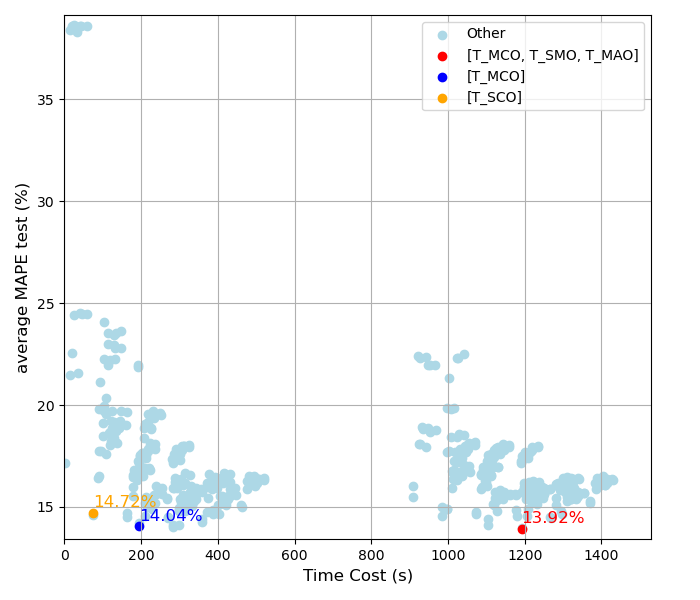
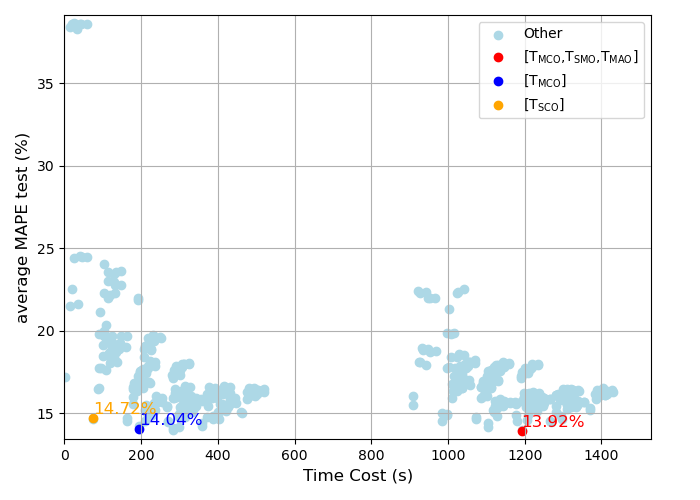
graph整理 完了

Changed region(s): [[0.0, 0.27, 0.93, 0.99], [0.06, 0.0, 0.93, 0.24], [0.84, 0.21, 0.87, 0.24]]

diff --git a/visualize_source/plot_mape_timecost_tradeoff.py b/visualize_source/plot_mape_timecost_tradeoff.py
@@ -28,7 +28,7 @@ def main():
     condition_other = ~condition_1 & ~condition_2 & ~condition_3  # その他は青
 
     # # グラフの描画
-    fig, ax = plt.subplots(figsize=(7, 6))
+    fig, ax = plt.subplots(figsize=(7, 5))
 
     # 青の点（それ以外）
     ax.scatter(df['Time Cost (s)'][condition_other],
@@ -36,22 +36,26 @@ def main():
                color='lightblue',
                label='Other')
 
+    # 各モデルにラベルを付けるためにデータフレームを加工
+    def get_label(param_list):
+        return f"[{','.join([to_latex_subscript(param) for param in param_list])}]"
+
     # 赤の点 max
     scatter_max = ax.scatter(df['Time Cost (s)'][condition_1],
                              df['average MAPE test (%)'][condition_1],
                              color='red',
-                             label=f"[{', '.join(max_mape_list)}]")
+                             label=get_label(max_mape_list))
 
     # 青の点 trade_off
     scatter_trade_off = ax.scatter(df['Time Cost (s)'][condition_2],
                                    df['average MAPE test (%)'][condition_2],
                                    color='blue',
-                                   label=f"[{', '.join(trade_off_list)}]")
+                                   label=get_label(trade_off_list))
     #オレンジcletの点
     scatter_cost_on = ax.scatter(df['Time Cost (s)'][condition_3],
                                  df['average MAPE test (%)'][condition_3],
                                  color='orange',
-                                 label=f"[{', '.join(cost_on_list)}]")
+                                 label=get_label(cost_on_list))
 
     # 各点の上に 'average MAPE test (%)' の値を表示（lightblueを除く）
     def adjust_text_position(x, y, color):
@@ -127,6 +131,13 @@ def load_data(data_dir, data_file):
     except ValueError as e:
         print(e)
         sys.exit(1)
+
+
+def to_latex_subscript(parameter):
+    """
+    LaTeX形式で変数を下付き文字として変換する
+    """
+    return f"T$_{{\\text{{{parameter[2:]}}}}}$"  # 'T_'の後ろを下付き文字として変換
 
 
 def save_plot(fig, output_dir, output_file):

diff --git a/IN_visuarize_source/plot_mape_timecost_tradeoff.py b/IN_visuarize_source/plot_mape_timecost_tradeoff.py
@@ -35,23 +35,29 @@ def main():
                df['average MAPE test (%)'][condition_other],
                color='lightblue',
                label='Other')
+
     # "#1f77b4", "#ff7f0e"
+
+    # 各モデルにラベルを付けるためにデータフレームを加工
+    def get_label(param_list):
+        return f"[{','.join([to_latex_subscript(param) for param in param_list])}]"
+
     # 赤の点 max
     scatter_max = ax.scatter(df['Time Cost (s)'][condition_1],
                              df['average MAPE test (%)'][condition_1],
                              color='red',
-                             label=f"[{', '.join(max_mape_list)}]")
+                             label=get_label(max_mape_list))
 
     # 青の点 trade_off
     scatter_trade_off = ax.scatter(df['Time Cost (s)'][condition_2],
                                    df['average MAPE test (%)'][condition_2],
                                    color='blue',
-                                   label=f"[{', '.join(trade_off_list)}]")
+                                   label=get_label(trade_off_list))
     #オレンジcletの点
     scatter_cost_on = ax.scatter(df['Time Cost (s)'][condition_3],
                                  df['average MAPE test (%)'][condition_3],
                                  color='#ff7f0e',
-                                 label=f"[{', '.join(cost_on_list)}]")
+                                 label=get_label(cost_on_list))
 
     # 各点の上に 'average MAPE test (%)' の値を表示（lightblueを除く）
     def adjust_text_position(x, y, color):
@@ -127,6 +133,13 @@ def load_data(data_dir, data_file):
     except ValueError as e:
         print(e)
         sys.exit(1)
+
+
+def to_latex_subscript(parameter):
+    """
+    LaTeX形式で変数を下付き文字として変換する
+    """
+    return f"T$_{{\\text{{{parameter[2:]}}}}}$"  # 'T_'の後ろを下付き文字として変換
 
 
 def save_plot(fig, output_dir, output_file):

diff --git a/visualize_source/plot_high_precision_models.py b/visualize_source/plot_high_precision_models.py
@@ -33,14 +33,8 @@ def main():
 def to_latex_subscript(parameter):
     """
     LaTeX形式で変数を下付き文字として変換する
-    
-    Args:
-        parameter (str): 入力パラメータ（例: 'T_MCO'）
-        
-    Returns:
-        str: LaTeX形式の下付き文字（例: '$T_{MCO}$'）
     """
-    return f"$T_{{{parameter[2:]}}}$"
+    return f"T$_{{\\text{{{parameter[2:]}}}}}$"  # 'T_'の後ろを下付き文字として変換
 
 
 def load_data(data_dir, data_file):
@@ -80,7 +74,7 @@ def plot_feature_importance(high_precision_models, output_dir):
         feature for features in high_precision_models['Variable Parameter'] for feature in features
     ]).value_counts()
 
-    plt.figure(figsize=(7, 6))
+    plt.figure(figsize=(6, 5))
     ax = plt.gca()
     ax.grid(axis='y', linestyle='--', zorder=1)  # グリッドを zorder=1 に設定
     ax.bar(feature_counts.index, feature_counts.values, zorder=2)  # 棒グラフ
@@ -88,6 +82,7 @@ def plot_feature_importance(high_precision_models, output_dir):
     plt.xlabel('Benchmark', fontsize=12)
     plt.ylabel('The Number of Benchmark in High-Precision Models', fontsize=12)
     plt.xticks(rotation=0, ha='center', fontsize=10)
+    plt.tight_layout()
     save_path = os.path.join(output_dir, 'high_precision_benchmark_models.png')
     plt.savefig(save_path, bbox_inches='tight')  # PNG形式で保存
     plt.close()  # グラフを閉じる

diff --git a/visualize_source/benchmark_shap_analysis_barplot.py b/visualize_source/benchmark_shap_analysis_barplot.py
@@ -35,23 +35,21 @@ server_order = [
 ]
 
 
-# LaTeX形式でのパラメータ名を変換する関数
 def to_latex_subscript(parameter):
     """
-    T_XXX 形式の文字列を $T_{XXX}$ 形式に変換
+    LaTeX形式で変数を下付き文字として変換する
     """
-    return f"$T_{{{parameter[2:]}}}$"
+    return f"T$_{{\\text{{{parameter[2:]}}}}}$"  # 'T_'の後ろを下付き文字として変換
 
 
-# 色設定
+# 色設定（関数を使ってキーを生成）
 parameter_colors = {
-    "$T_{MCO}$": "#1f77b4",  # 青
-    "$T_{SMO}$": "#2ca02c",  # 緑
-    "$T_{MAO}$": "#9467bd",  # 紫
-    "$T_{BST}$": "#ff7f0e",  # オレンジ
-    "$T_{SAO}$": "#d62728",  # 赤
+    to_latex_subscript("T_MCO"): "#1f77b4",  # 青
+    to_latex_subscript("T_SMO"): "#2ca02c",  # 緑
+    to_latex_subscript("T_MAO"): "#9467bd",  # 紫
+    to_latex_subscript("T_BST"): "#ff7f0e",  # オレンジ
+    to_latex_subscript("T_SAO"): "#d62728",  # 赤
 }
-
 # グラフ保存ディレクトリの指定
 output_dir = '../soturon_graph'
 if not os.path.exists(output_dir):

diff --git a/visualize_source/mape_barplot_benchmark_combs.py b/visualize_source/mape_barplot_benchmark_combs.py
@@ -74,15 +74,9 @@ def filter_by_parameter(df):
 
 def to_latex_subscript(parameter):
     """
-    パラメータをLaTeX形式の下付き文字に変換。
-
-    Args:
-        parameter (str): パラメータ名。
-
-    Returns:
-        str: LaTeX形式の下付き文字。
+    LaTeX形式で変数を下付き文字として変換する
     """
-    return f"$T_{{{parameter[2:]}}}$"
+    return f"T$_{{\\text{{{parameter[2:]}}}}}$"  # 'T_'の後ろを下付き文字として変換
 
 
 def get_label(param_list):

diff --git a/IN_visuarize_source/plot_high_precision_models.py b/IN_visuarize_source/plot_high_precision_models.py
@@ -33,14 +33,8 @@ def main():
 def to_latex_subscript(parameter):
     """
     LaTeX形式で変数を下付き文字として変換する
-    
-    Args:
-        parameter (str): 入力パラメータ（例: 'T_MCO'）
-        
-    Returns:
-        str: LaTeX形式の下付き文字（例: '$T_{MCO}$'）
     """
-    return f"$T_{{{parameter[2:]}}}$"
+    return f"T$_{{\\text{{{parameter[2:]}}}}}$"  # 'T_'の後ろを下付き文字として変換
 
 
 def load_data(data_dir, data_file):

diff --git a/IN_visuarize_source/mape_boxplot_for_benchmark_combs.py b/IN_visuarize_source/mape_boxplot_for_benchmark_combs.py
@@ -145,7 +145,7 @@ def to_latex_subscript(parameter):
     """
     LaTeX形式で変数を下付き文字として変換する
     """
-    return f"$T_{{{parameter[2:]}}}$"  # 'T_'の後ろを下付き文字として変換
+    return f"T$_{{\\text{{{parameter[2:]}}}}}$"  # 'T_'の後ろを下付き文字として変換
 
 
 def load_data(data_dir, data_file):

diff --git a/visualize_source/mape_boxplot_for_benchmark_combs.py b/visualize_source/mape_boxplot_for_benchmark_combs.py
@@ -110,7 +110,7 @@ def to_latex_subscript(parameter):
     """
     LaTeX形式で変数を下付き文字として変換する
     """
-    return f"$T_{{{parameter[2:]}}}$"  # 'T_'の後ろを下付き文字として変換
+    return f"T$_{{\\text{{{parameter[2:]}}}}}$"  # 'T_'の後ろを下付き文字として変換
 
 
 def load_data(data_dir, data_file):

diff --git a/calculate_feature_importance.py b/calculate_feature_importance.py
@@ -17,8 +17,8 @@ SERVER_LIST = [
 ]
 
 # データの出力先
-output_dir = './mlresults_analyze'
-parameterdata_dir = './mlresults_analyze'
+output_dir = './mldata_analyze'
+parameterdata_dir = './mldata_analyze'
 
 # parameterデータファイル
 # transferとoperationが両方含まれる

diff --git a/analyze_ml_results.py b/analyze_ml_results.py
@@ -11,7 +11,7 @@ def main():
     """
     # ディレクトリとファイル名の設定
     data_dir = './ml_results'
-    output_dir = './mlresults_analyze'
+    output_dir = './mldata_analyze'
 
     data_file = 'format_benchmark_parameter_loocv.csv'
 
